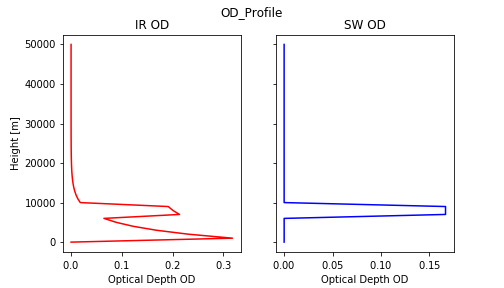
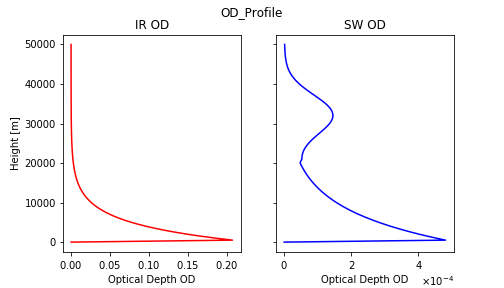
README updated

diff --git a/Atm_T_Functions.py b/Atm_T_Functions.py
@@ -4,7 +4,6 @@
 import numpy as np
 
 #Definition of the fixed value
-
 N_gas_1 = 1 #Normalisation factor for the gas one
 N_gas_2 = 1 #Normalisation factor for the gas two
 N_gas_ozone = 1 #Normalisation factor for the ozone
@@ -12,7 +11,6 @@ albedo = 0.3                 #Planetary albedo
 TSI = (1 - albedo) * 1370/4  #Total solar irradiance at the atmosphere top
 mudif = 3/5                  # Clouds diffuse trasmittance
 sigma = 5.6704e-8            # [W/(m^2k^4)] Stefan Boltzmann Costant     
-
 
 
 def mixing_ratio_profile(flag, nlayer, z, scale_height):
@@ -83,7 +81,7 @@ def ozone_mixing_ratio(flag, z, nlayer):
         def condition(x): return (x > z_botton) & (x < z_top)
         lay = np.where(condition(z))[0] #pos index height where there's ozone
         z0 = (z_botton + z_top)*0.5     #height maximum concentration
-        sigma = (z_top - z_botton)/10   
+        sigma = (z_top - z_botton)/6   
         w_ozone = np.zeros(nlayer)
         for k in lay:
             w_ozone[k]=np.exp((-(z[k]-z0)**2)/(2*sigma**2))
@@ -133,7 +131,10 @@ def optical_depth(nlayer = 51, z_top_a = 50, scale_height_1 = 5,
             ValueError:
                 If the one of the input value is negative
                 If nlayer < 1
-                If the bottom of the cloud is higher than the top
+                If the bottom of the cloud is higher than the top or if the
+                top of the cloud is higher than the top of the atmosphere
+            TypeError:
+                If the input value is not a number (ex: input string)
             
                                                                           """
     #Errors                                                                      
@@ -327,10 +328,8 @@ def temperature_profile(nlayer, ch_ir, ch_sw):
     #Computation of the absorbance and the emissivity of the layer 
     #The emissivity is equal to the absorbance (Kirchhoff's law)    
     abs_ir = 1 - trans_ir #absorbance
-    abs_sw = 1 - trans_sw 
-    
-    emis_ir = abs_ir
-    emis_sw = abs_sw
+    abs_sw = 1 - trans_sw     
+    emis_ir = abs_ir      #emissivity
     
     #Computation of the trasmissivity symmetric matrix     
     trasm_m_ir = np.ones((nlayer,nlayer))

diff --git a/Atm_T_Profile.py b/Atm_T_Profile.py
@@ -31,22 +31,22 @@ nlayer = parser.getfloat('General_Variables', 'number_of_layers',
                          fallback = 51) 
 z_top_a = parser.getfloat('General_Variables', 'top_of_Atmopshere',
                           fallback = 50)
-scale_height_1 = parser.getfloat('General_Variables', 'scale_height_gas_1',
+scale_height_1 = parser.getfloat('General_Variables', 'scale_height_gas_IR',
+                                 fallback = 10)
+scale_height_2 = parser.getfloat('General_Variables', 'scale_height_gas_SW',
                                  fallback = 5)
-scale_height_2 = parser.getfloat('General_Variables', 'scale_height_gas_2',
-                                 fallback = 5)
-wp_1 = parser.getfloat('General_Variables', 'wp_profile_gas_1',
-                       fallback = 1)
-wp_2 = parser.getfloat('General_Variables', 'wp_profile_gas_2',
+wp_1 = parser.getfloat('General_Variables', 'wp_profile_gas_IR',
+                       fallback = 2)
+wp_2 = parser.getfloat('General_Variables', 'wp_profile_gas_SW',
                        fallback = 1)
 ozone = parser.getfloat('General_Variables', 'presence_of_ozone',
                         fallback = 1)
-k_1_a = parser.getfloat('General_Variables', 'abs_coefficient_gas_1',
-                        fallback = 0.7)
-k_2_a = parser.getfloat('General_Variables', 'abs_coefficient_gas_2',
-                        fallback = 0.0002)
+k_1_a = parser.getfloat('General_Variables', 'abs_coefficient_gas_IR',
+                        fallback = 0.8)
+k_2_a = parser.getfloat('General_Variables', 'abs_coefficient_gas_SW',
+                        fallback = 0.005)
 k_ozone_a = parser.getfloat('General_Variables', 'abs_coefficient_ozone',
-                            fallback = 0.000005)
+                            fallback = 0.002)
 clouds = parser.getfloat('Clouds_Variables', 'presence_of_clouds', 
                          fallback = 0)
 k_cloud_LW = parser.getfloat('Clouds_Variables', 'cloud_IR_abs_coeff', 

diff --git a/Configuration_File_Maker.py b/Configuration_File_Maker.py
@@ -7,19 +7,19 @@ from configparser import ConfigParser
 config = ConfigParser()
 
 config['General_Variables'] = {    
-    'number_of_layers' : '51',
+    'number_of_layers' : '101',
     'top_of_Atmopshere' : '50',
-    'scale_height_gas_1' : '5',
-    'scale_height_gas_2' : '5',
-    'wp_profile_gas_1' : '2',
-    'wp_profile_gas_2' : '1',
+    'scale_height_gas_IR' : '10',
+    'scale_height_gas_SW' : '5',
+    'wp_profile_gas_IR' : '2',
+    'wp_profile_gas_SW' : '1',
     'presence_of_ozone' : '1',
-    'abs_coefficient_gas_1' : '0.7',
-    'abs_coefficient_gas_2' : '0.0002',
-    'abs_coefficient_ozone' : '0.000005'}
+    'abs_coefficient_gas_IR' : '1.2',
+    'abs_coefficient_gas_SW' : '0.005',
+    'abs_coefficient_ozone' : '0.002'}
 
 config['Clouds_Variables'] = {    
-    'presence_of_clouds' : '1',
+    'presence_of_clouds' : '0',
     'cloud_bottom' : '8',
     'cloud_top' : '10',
     'cloud_IR_abs_coeff' : '0.0001',

diff --git a/README.md b/README.md
@@ -1,9 +1,23 @@
 # ATMOSPHERIC TEMPERATURE PROFILE.
 
+The Earth's atmosphere is relatively trasparent to incoming solar radiation (short-wave radiation), and opaque to outgoing long-wave radiation 
+emitted by the Earth's surface and by the atmosphere itself. For this reason part of the outgoing radiation is blocked. Populary this phenomena 
+is known as ***greenhouse effect***.
+
+Much of the absorption and reemission of outgoing radiation are due to air molecules, but cloud droplets and aerosol. The atmosphere also scatters
+the radiation that passes through it, giving rise to a wide range of optical effects, including the blue color of the sky.
+
+### The Vertical Structure
+![alt text](https://github.com/Michele231/Esame_Software/blob/master/Figure/Atm_TEmperature_Profile.png "Atmosphere mean temperature profile")
+
+The density at the sea level is  1.25 $$kg m^{-3}$$. Density and pressure decrease nearly exponentially with the height:
+
+$$p = p_{0}e^{-z/H}$$
+
+
+
 ### Long-term radiative energy balance of a planet.
 
 The system is assumed to be in a stationary state with energy transfer occurring only by means of radiation. 
 Each layer is in radiative energy balance. The equations that describe the energy balance for each layer have this simple structure:
 
-### The temperature profile of the atmosphere.
-![alt text](https://github.com/Michele231/Esame_Software/blob/master/Figure/Atm_TEmperature_Profile.png "Atmosphere mean temperature profile")
